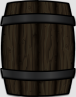
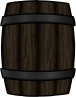
tintade barrels, tutorial funkar som den ska

Changed region(s): [[0.0, 0.0, 1.0, 1.0]]

diff --git a/js/gameUtils.js b/js/gameUtils.js
@@ -103,10 +103,16 @@ function readLevelsFromFile(fileName) {
 		//	console.log(winBarrelCol + ' , ' + winBarrelRow);
 			gameBoard[colCounter-1][i].visible = canSee;
 			gameBoard[colCounter-1][i].barrelSprite.inputEnabled = canSee;
-			gameBoard[colCounter-1][i].barrelSprite.alpha = canSee;
-			gameBoard[colCounter-1][i].barrelSprite.loadTexture(fooBarrelSprite);
+			//gameBoard[colCounter-1][i].barrelSprite.alpha = canSee;
+			//gameBoard[colCounter-1][i].barrelSprite.loadTexture(fooBarrelSprite);
 			gameBoard[colCounter-1][i].barrelType = fooBarrelType;
 			gameBoard[colCounter-1][i].charges = 2;
+
+			if(fooBarrelType != BARREL_EMPTY && canSee == false)
+				gameBoard[colCounter-1][i].barrelSprite.loadTexture('spriteFadedBarrel');
+			else 
+				gameBoard[colCounter-1][i].barrelSprite.loadTexture(fooBarrelSprite);
+
 
 			j++;
 		}	
@@ -193,13 +199,16 @@ function spawnBoard() {
 function uppdateBarrelVisibility(tmpPos, isCol) {
 	if(isCol) {
         for(var i = 0; i < TEST_CONSTANT; i++) {
-            gameBoard[tmpPos][i].barrelSprite.alpha = gameBoard[tmpPos][i].visible;
-            gameBoard[tmpPos][i].barrelSprite.inputEnabled = gameBoard[tmpPos][i].visible;
+           // gameBoard[tmpPos][i].barrelSprite.alpha = gameBoard[tmpPos][i].visible;
+           gameBoard[tmpPos][i].barrelSprite.inputEnabled = gameBoard[tmpPos][i].visible;
+
+
         }
     } else {
         for(var i = 0; i < TEST_CONSTANT; i++) {
-            gameBoard[i][tmpPos].barrelSprite.alpha = gameBoard[i][tmpPos].visible;
-            gameBoard[i][tmpPos].barrelSprite.inputEnabled = gameBoard[i][tmpPos].visible;
+            //gameBoard[i][tmpPos].barrelSprite.alpha = gameBoard[i][tmpPos].visible;
+           gameBoard[i][tmpPos].barrelSprite.inputEnabled = gameBoard[i][tmpPos].visible;
+
         }
     }
 }

diff --git a/js/barrelFunctions.js b/js/barrelFunctions.js
@@ -3,6 +3,8 @@ function showBarrelRight(tmpBarrel) {
 	var row = tmpBarrel.posX;
     var col = tmpBarrel.posY;
 
+
+   	gameBoard[col+1][row].barrelSprite.loadTexture(gameBoard[col+1][row].barrelType);
     gameBoard[col+1][row].visible = true;
     gameBoard[col+1][row].barrelInfo();
     uppdateBarrelVisibility(col+1, true);
@@ -11,7 +13,8 @@ function showBarrelRight(tmpBarrel) {
 function showBarrelLeft(tmpBarrel) {
 	var row = tmpBarrel.posX;
     var col = tmpBarrel.posY;
-
+   	
+   	gameBoard[col-1][row].barrelSprite.loadTexture(gameBoard[col-1][row].barrelType);
     gameBoard[col-1][row].visible = true;
     gameBoard[col-1][row].barrelInfo();
     uppdateBarrelVisibility(col-1, true);
@@ -21,7 +24,8 @@ function showBarrelAbove(tmpBarrel) {
     console.log('shwo above!');
     var row = tmpBarrel.posX;
     var col = tmpBarrel.posY;
-    
+
+   	gameBoard[col][row-1].barrelSprite.loadTexture(gameBoard[col][row-1].barrelType);
     gameBoard[col][row-1].visible = true;
     gameBoard[col][row-1].barrelInfo();
     uppdateBarrelVisibility(row-1, false);
@@ -32,6 +36,7 @@ function showBarrelBellow (tmpBarrel) {
 	var row = tmpBarrel.posX;
 	var col = tmpBarrel.posY;
 
+   	gameBoard[col][row+1].barrelSprite.loadTexture(gameBoard[col][row+1].barrelType);
 	gameBoard[col][row+1].visible = true;
 	gameBoard[col][row+1].barrelInfo();
 	uppdateBarrelVisibility(row+1, false);

diff --git a/js/variables.js b/js/variables.js
@@ -1,14 +1,14 @@
-var BARREL_REVEAL_ABOVE = 'Barrel Reveal Above';
-var BARREL_REVEAL_BELOW = 'Barrel Reveal Below';
-var BARREL_REVEAL_LEFT = 'Barrel Reveal Left';
-var BARREL_REVEAL_RIGHT = 'Barrel Reveal Right';
-var BARREL_CHARGE = 'Barrel Charge';
-var BARREL_MOVE_COL_UP = 'Barrel Move Col Up';
-var BARREL_MOVE_COL_DOWN = 'Barrel Move Col Down';
-var BARREL_MOVE_ROW_LEFT = 'Barrel Move Row To The Left';
-var BARREL_MOVE_ROW_RIGHT = 'Barrel Move Row To The Right';
-var BARREL_EMPTY = 'Barrel Empty';
-var BARREL_WIN = 'Barrel Win';
+var BARREL_REVEAL_ABOVE = 'spriteRevealAbove';
+var BARREL_REVEAL_BELOW = 'spriteRevealBelow';
+var BARREL_REVEAL_LEFT = 'spriteRevealLeft';
+var BARREL_REVEAL_RIGHT = 'spriteRevealRight';
+var BARREL_CHARGE = 'spriteCharge';
+var BARREL_MOVE_COL_UP = 'spriteMoveColUp';
+var BARREL_MOVE_COL_DOWN = 'spriteMoveColDown';
+var BARREL_MOVE_ROW_LEFT = 'spriteMoveRowLeft';
+var BARREL_MOVE_ROW_RIGHT = 'spriteMoveRowRight';
+var BARREL_EMPTY = 'spriteInvisBarrel';
+var BARREL_WIN = 'spriteWinBarrel';
 
 var BOARD_COLS;
 var BOARD_ROWS;

diff --git a/js/tutorials.js b/js/tutorials.js
@@ -2,11 +2,14 @@ function loadTutorials() {
     tutorial_1_1 = game.add.sprite(114,-20,'tutorial_1_1');
     tutorial_1_2 = game.add.sprite(113,-20,'tutorial_1_2');
     tutorial_1_3 = game.add.sprite(115,-20,'tutorial_1_3');
-    
+
+    clearTutorials();
+}
+
+function showTutorials () {
     tutorial_1_1.alpha = false;
     tutorial_1_2.alpha = true;
     tutorial_1_3.alpha = false;
-
 }
 
 function swapTutorials(index) {

diff --git a/index.html b/index.html
@@ -30,6 +30,7 @@ var game = new Phaser.Game(640, 960, Phaser.AUTO, 'gameCentered', { preload: pre
 function preload() {
 	console.log('preload');
     assetsLoader();
+
 }
 
 function create() {
@@ -46,6 +47,7 @@ function create() {
 
     emptyBoard();
     createMenu();
+    loadTutorials();
 }
 
 function update() {

diff --git a/js/listeners.js b/js/listeners.js
@@ -101,7 +101,7 @@ function menuListener() {
 			currentLevel = 'level1';
 			readLevelsFromFile('level1');
 			hideMenu();
-			loadTutorials();
+			showTutorials();
 			break;
 
 		case 'level2':
